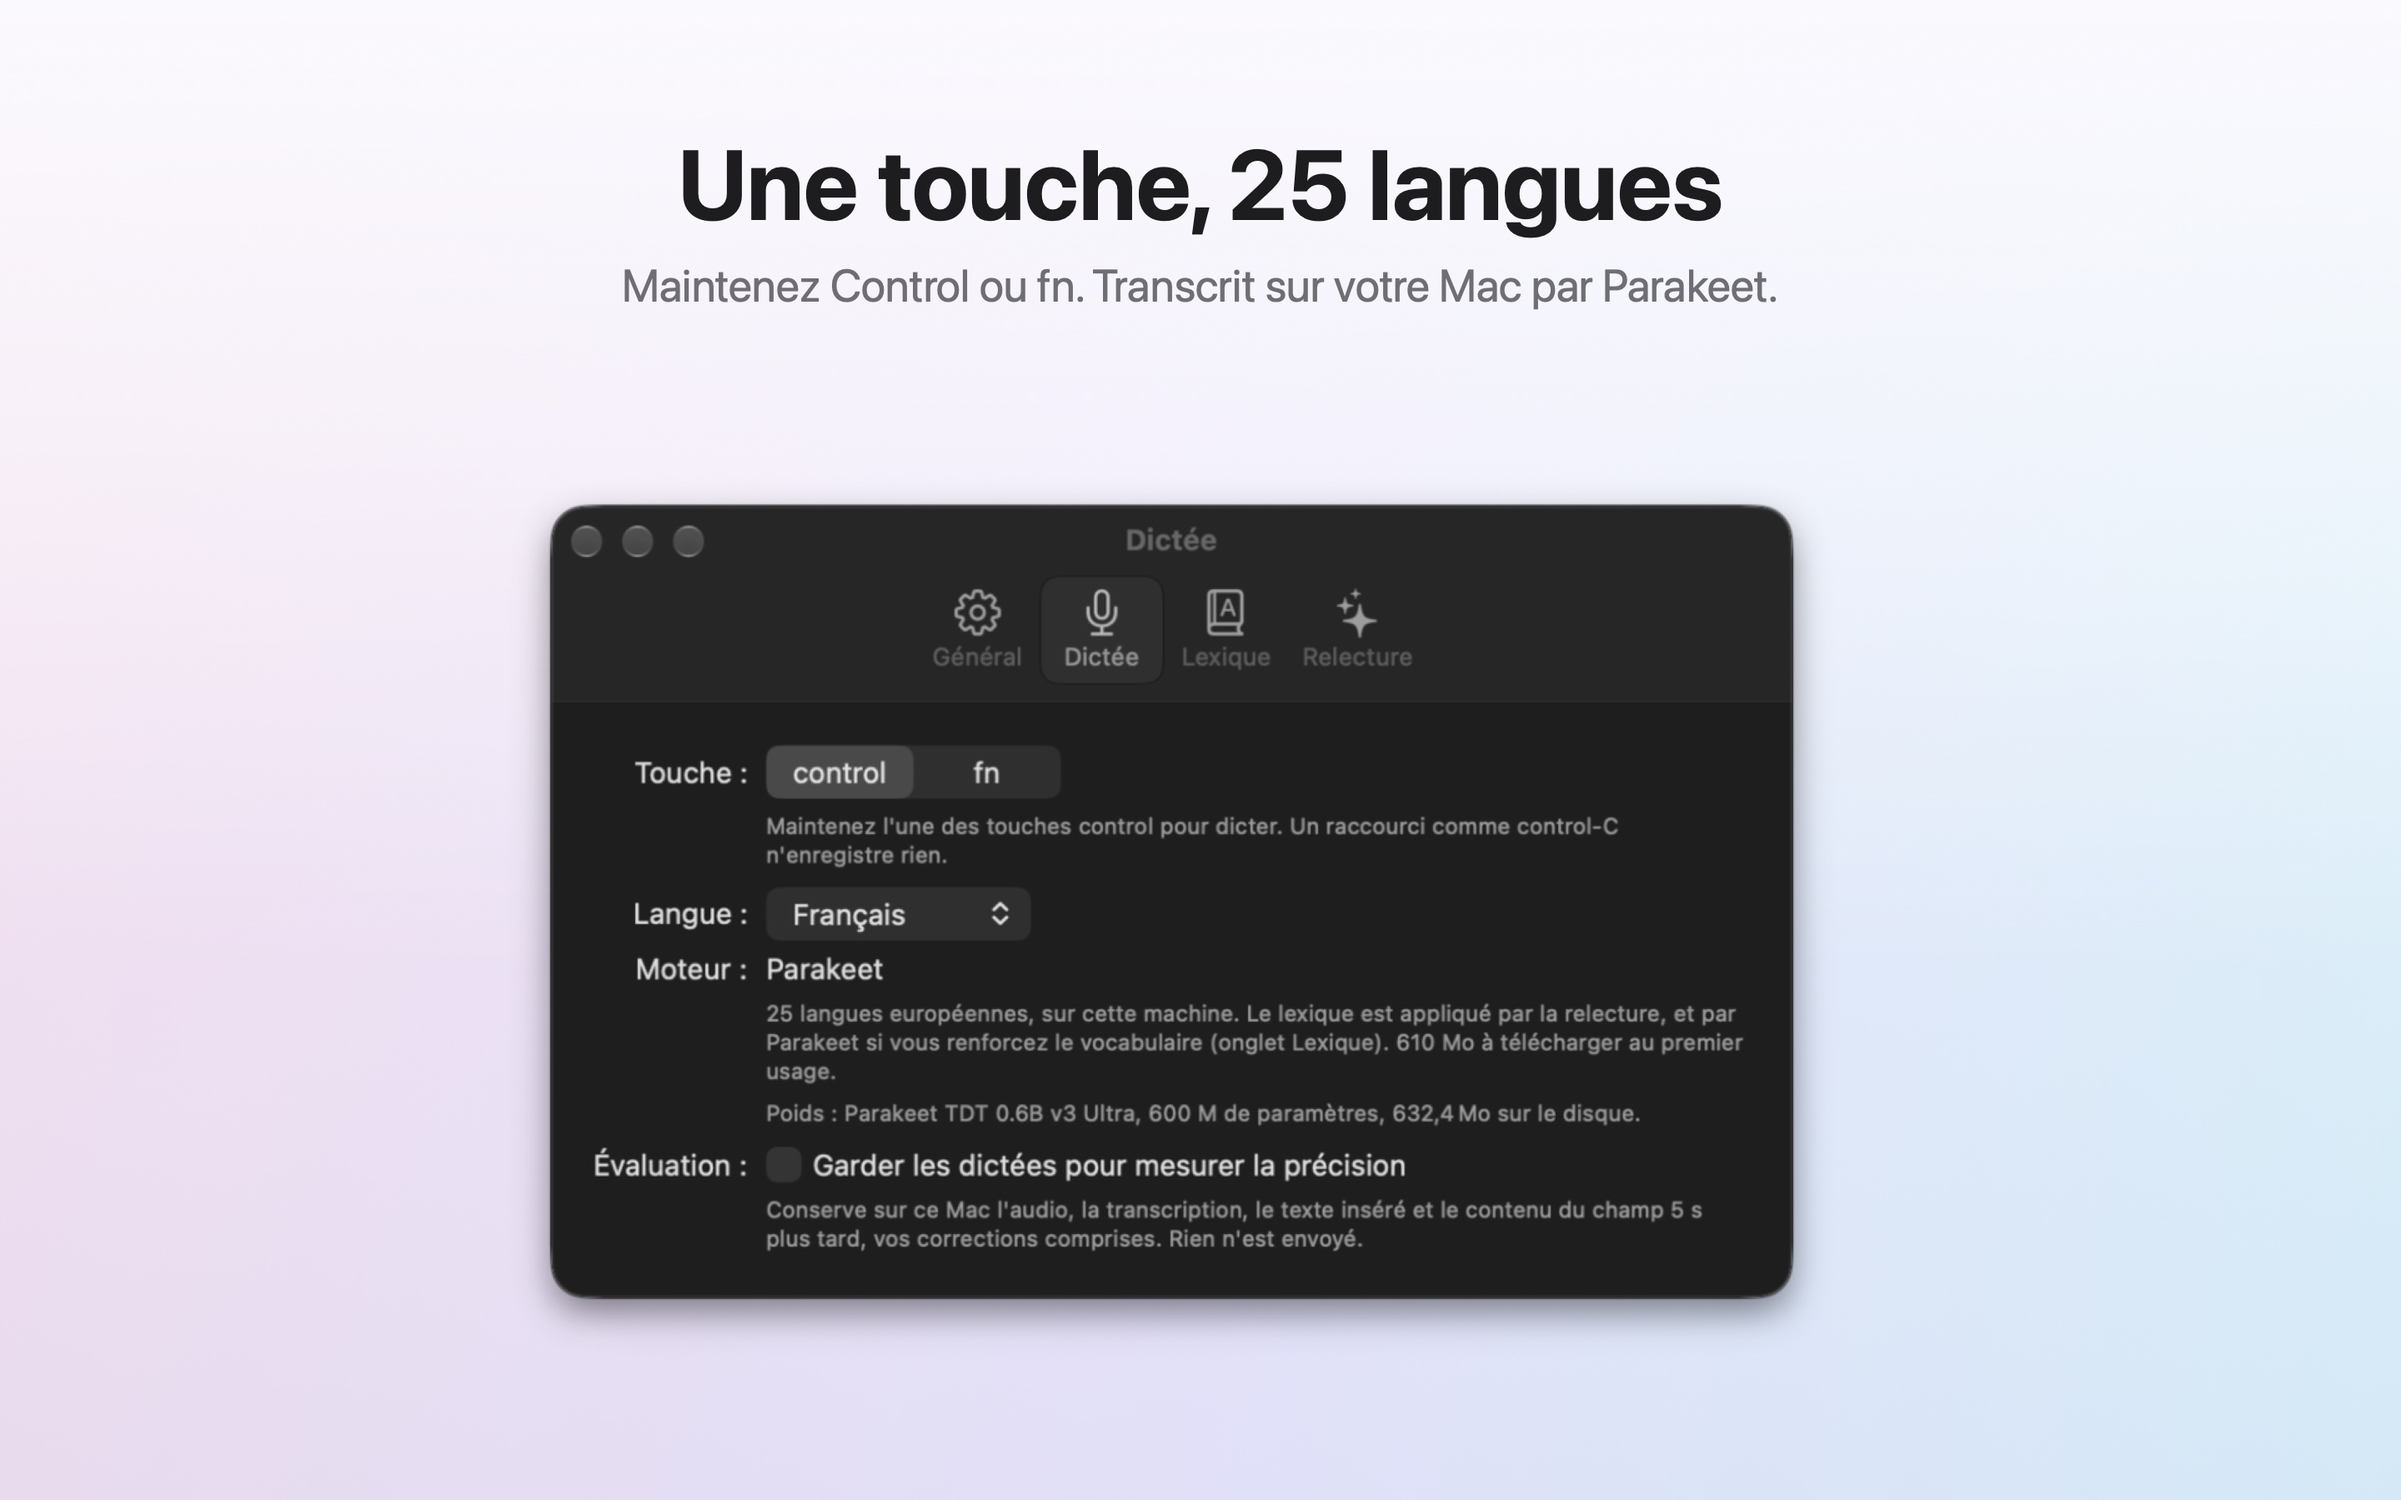
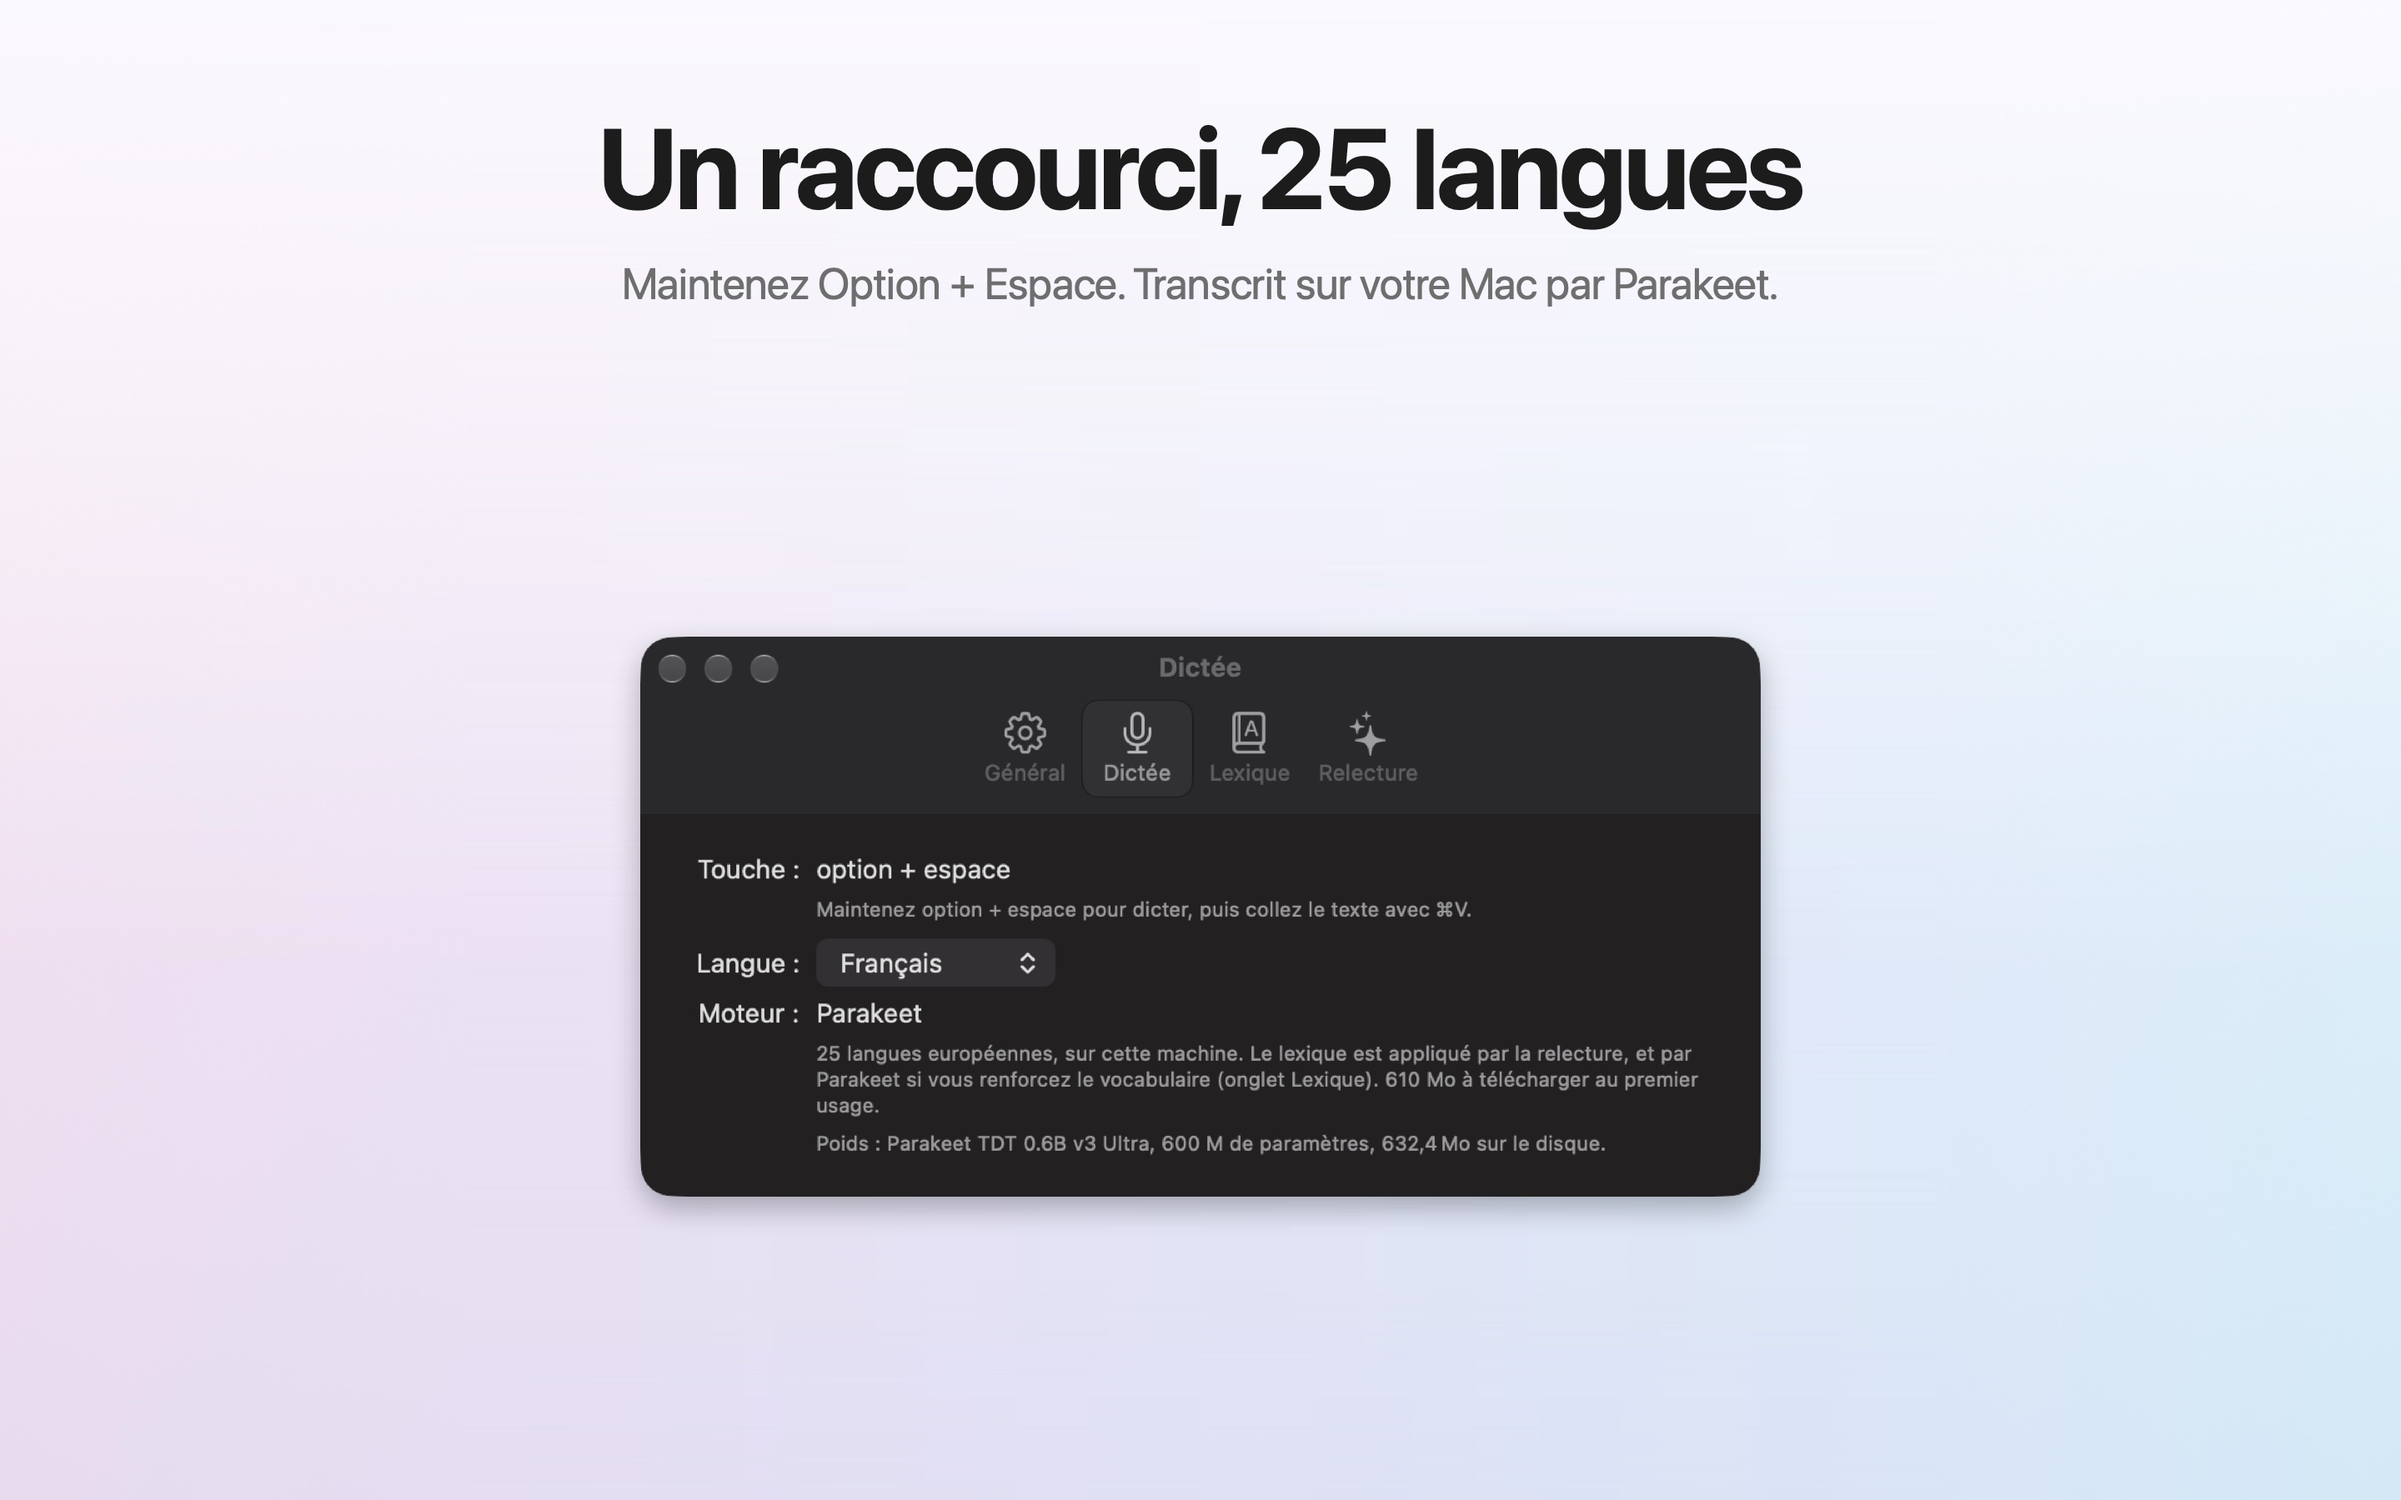
docs(app-store): panels of the hot key and pasteboard flow
Also keeps the setup's success line to dictations that landed.

Changed region(s): [[0.2188, 0.3111, 0.75, 0.9022], [0.25, 0.0622, 0.75, 0.2178]]

diff --git a/Dictate/UI/SetupView.swift b/Dictate/UI/SetupView.swift
@@ -687,8 +687,17 @@ private struct TryItPage: View {
         case .idle:
             if case .failed = model.transcriber.state { "failed" }
             else if model.transcriber.state != .ready { "preparing" }
-            else if !text.isEmpty, model.controller.lastOutcome != nil { "success" }
+            else if !text.isEmpty, dictationLanded { "success" }
             else { "ready" }
+        }
+    }
+
+    /// The App Store build never pastes: the text stops at the pasteboard.
+    private var dictationLanded: Bool {
+        switch model.controller.lastOutcome {
+        case .pasted: true
+        case .copied: Distribution.isAppStore
+        default: false
         }
     }
 
